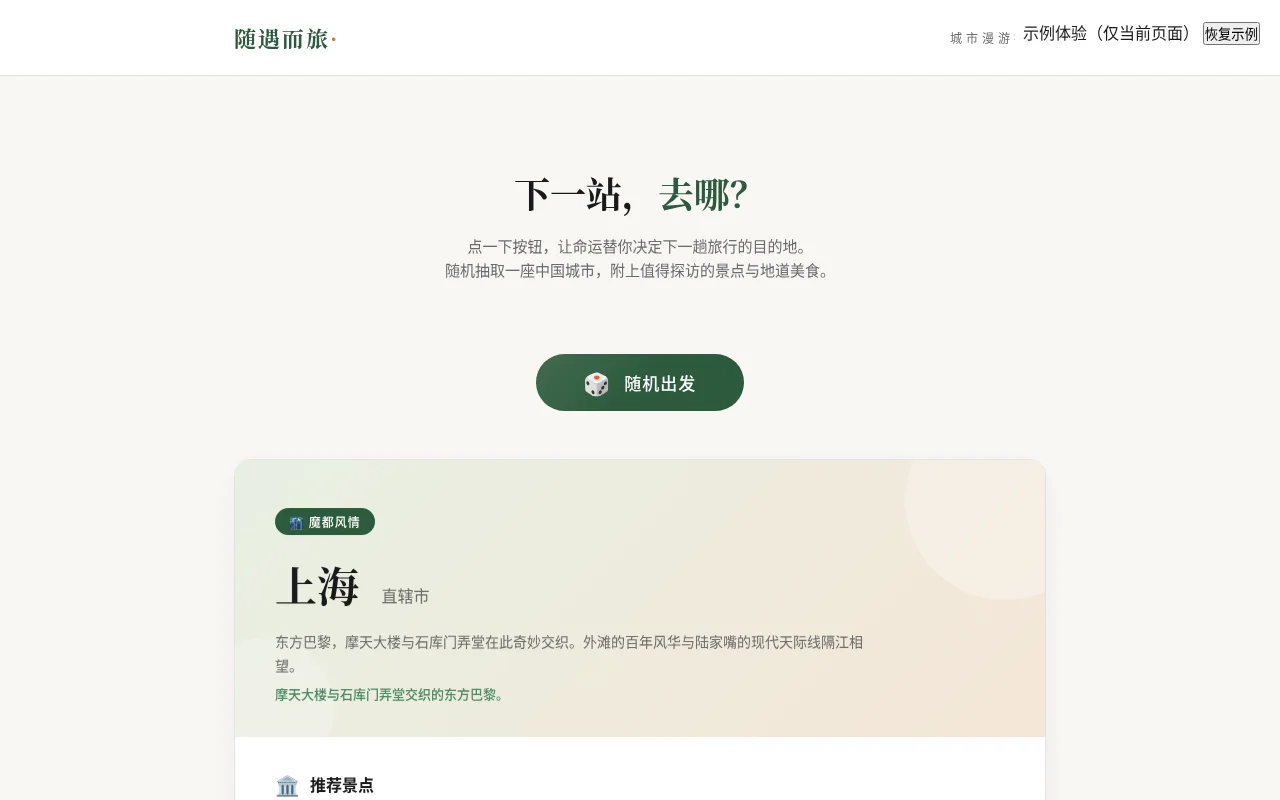
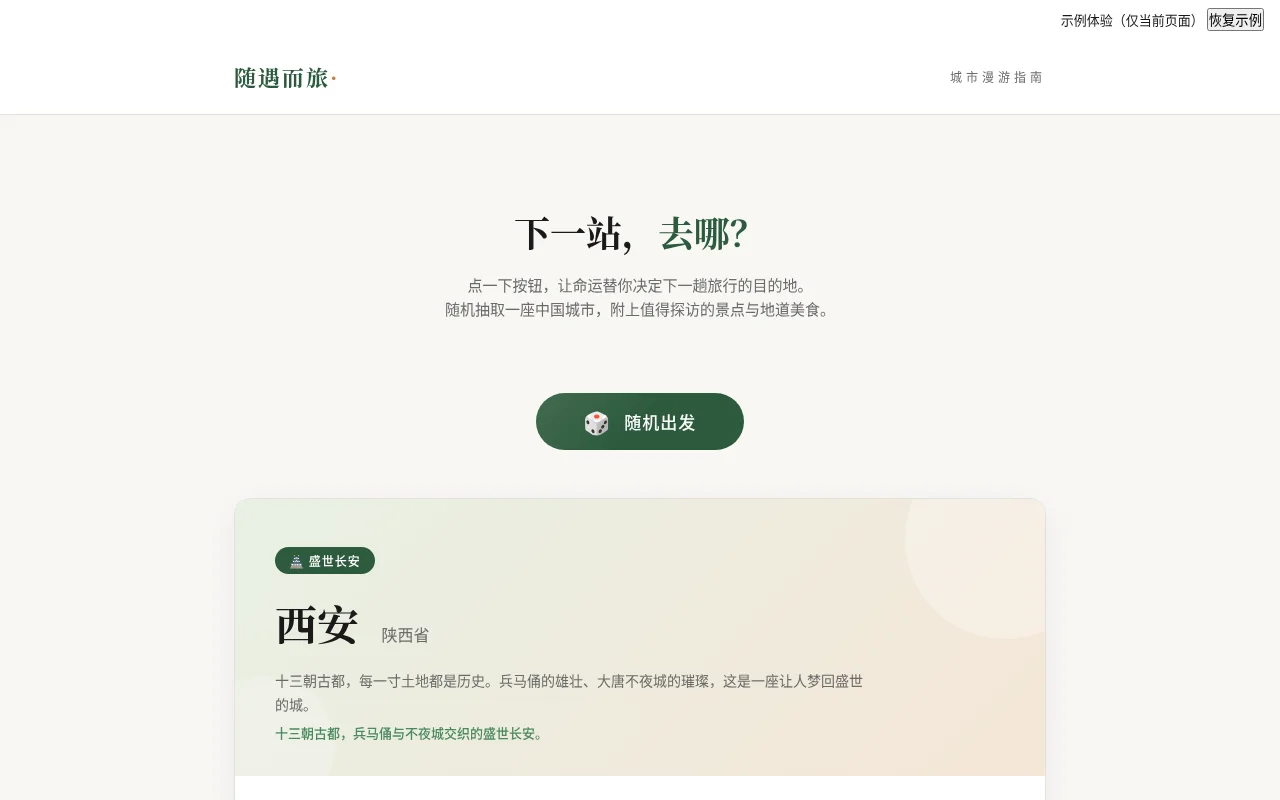
Fix mobile showcase header overlap

diff --git a/b853549acbbfb8d5b010c547/showcase/preview.html b/b853549acbbfb8d5b010c547/showcase/preview.html
@@ -391,7 +391,7 @@ body {
 </style>
 </head>
 <body>
-<div style="position:fixed;z-index:9999;right:12px;top:12px;background:white;padding:8px;border-radius:8px">示例体验（仅当前页面） <button id="reset-example">恢复示例</button></div>
+<div style="position:relative;z-index:101;background:white;padding:8px 16px;text-align:right;font-size:13px">示例体验（仅当前页面） <button id="reset-example">恢复示例</button></div>
 
 <header class="header">
   <div class="header-inner">
